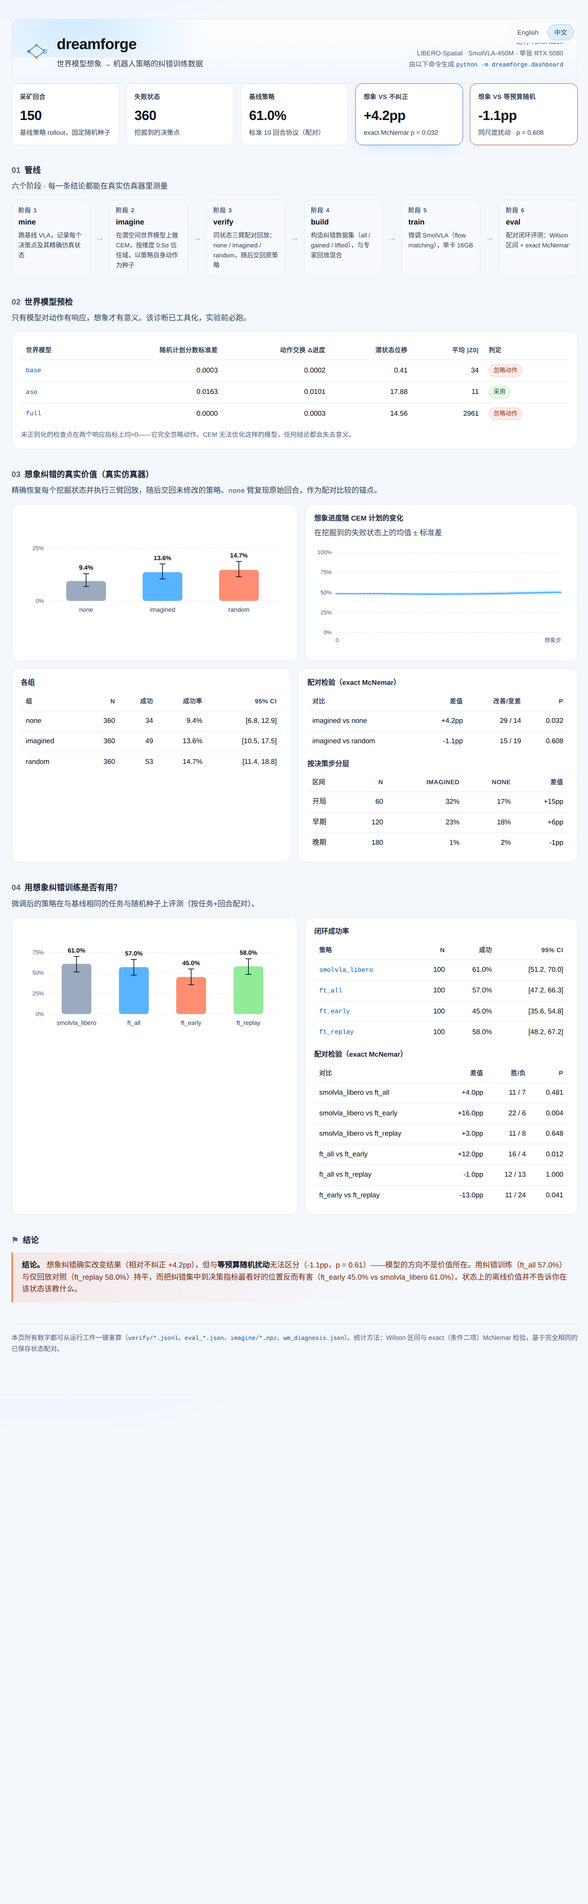
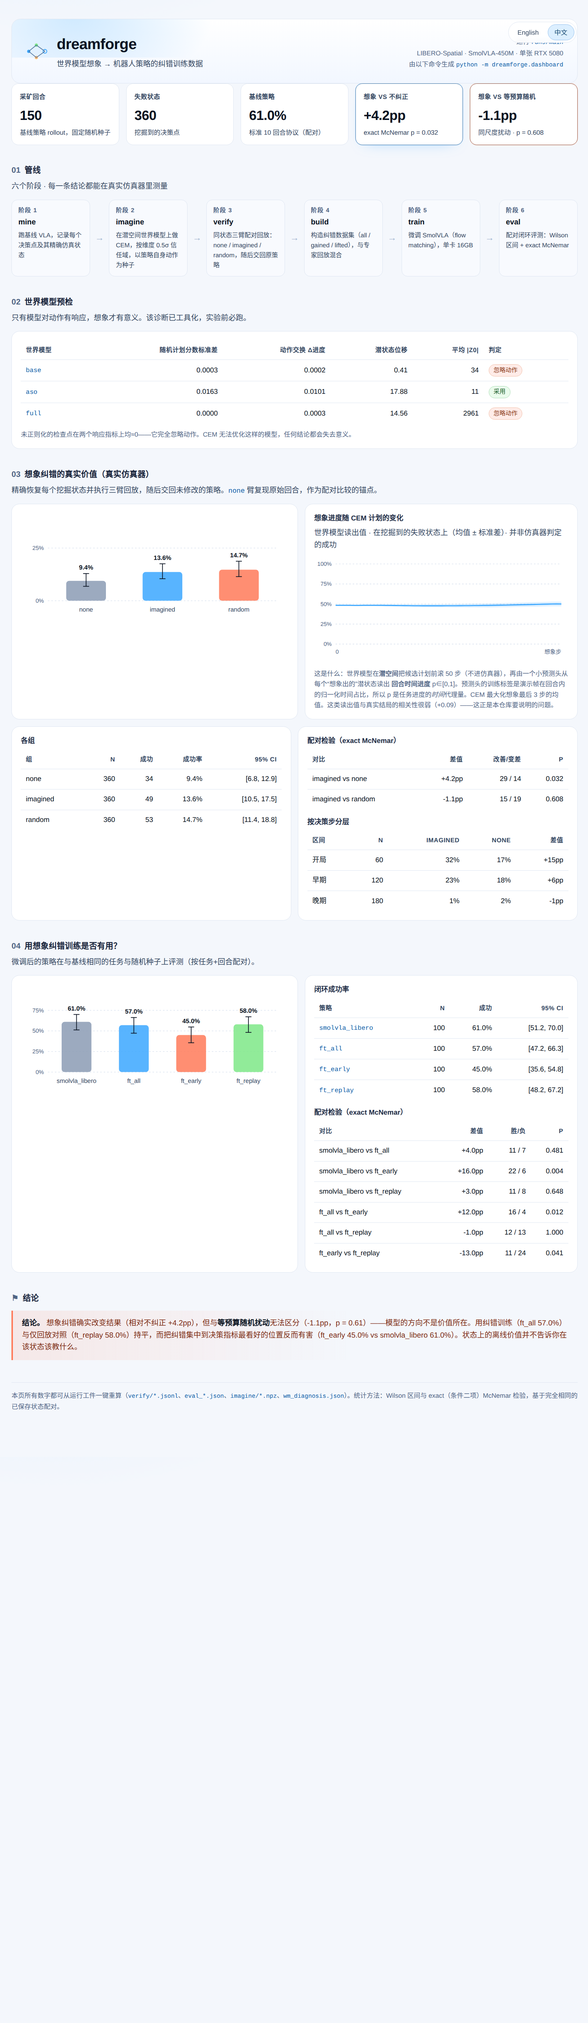
docs(dashboard): explain what 'imagined progress' is
- curve panel now states it is a world-model read-out (not simulator success):
  latent roll-out + a head predicting normalised episode time as a proxy
- protocol.md defines it and records the +0.09 correlation with real outcomes
- refresh EN/ZH screenshots

diff --git a/results/dashboard.html b/results/dashboard.html
@@ -134,7 +134,7 @@ code{font-family:'SFMono-Regular',Consolas,'Liberation Mono',monospace;font-size
       <div class="grid stats"><div class="card "><div class="k">mining episodes</div><div class="v">150</div><div class="d">base policy rollouts, fixed seeds</div></div><div class="card "><div class="k">failure states</div><div class="v">360</div><div class="d">decision points mined</div></div><div class="card "><div class="k">base policy</div><div class="v">61.0%</div><div class="d">10-episode protocol (paired)</div></div><div class="card hl"><div class="k">imagined vs none</div><div class="v">+4.2pp</div><div class="d">exact McNemar p = 0.032</div></div><div class="card bad"><div class="k">imagined vs random</div><div class="v">-1.1pp</div><div class="d">equal budget · p = 0.608</div></div></div>
 <h2><span class="n">01</span>Pipeline</h2><p class="sub">six stages · every claim is measurable in the real simulator</p><div class="flow"><div class="step"><div class="s">stage 1</div><div class="t">mine</div><div class="x">roll out the base VLA, record every decision point with its exact simulator state</div></div><div class="arrow">→</div><div class="step"><div class="s">stage 2</div><div class="t">imagine</div><div class="x">CEM over a latent world model, 0.5σ trust region, seeded by the policy&#x27;s own chunk</div></div><div class="arrow">→</div><div class="step"><div class="s">stage 3</div><div class="t">verify</div><div class="x">paired replay of the saved state: none / imagined / random, then hand back to the policy</div></div><div class="arrow">→</div><div class="step"><div class="s">stage 4</div><div class="t">build</div><div class="x">correction datasets (all / gained / lifted) mixed with expert replay</div></div><div class="arrow">→</div><div class="step"><div class="s">stage 5</div><div class="t">train</div><div class="x">SmolVLA fine-tune, flow matching, 16 GB single GPU</div></div><div class="arrow">→</div><div class="step"><div class="s">stage 6</div><div class="t">eval</div><div class="x">paired closed-loop evaluation with Wilson intervals and exact McNemar</div></div></div>
 <h2><span class="n">02</span>World-model pre-flight</h2><p class="sub">Imagination is only meaningful if the model responds to actions. This diagnostic is shipped as a CLI command and is run before any experiment.</p><div class="panel"><table><thead><tr><th>world model</th><th class="num">score std (random plans)</th><th class="num">action-swap Δprogress</th><th class="num">latent swap</th><th class="num">mean |z0|</th><th>verdict</th></tr></thead><tbody><tr><td><code>base</code></td><td class="num">0.0003</td><td class="num">0.0002</td><td class="num">0.41</td><td class="num">34</td><td><span class="pill o">ignores actions</span></td></tr><tr><td><code>aso</code></td><td class="num">0.0163</td><td class="num">0.0101</td><td class="num">17.88</td><td class="num">11</td><td><span class="pill g">used</span></td></tr><tr><td><code>full</code></td><td class="num">0.0000</td><td class="num">0.0003</td><td class="num">14.56</td><td class="num">2961</td><td><span class="pill o">ignores actions</span></td></tr></tbody></table><div class="note">An unregularized checkpoint scores ≈0 on both response metrics — it ignores the action entirely. CEM cannot optimize such a model, so results would be meaningless.</div></div>
-<h2><span class="n">03</span>What imagined corrections are worth (real simulator)</h2><p class="sub">Each mined state is restored exactly and replayed with three arms, then the unchanged policy resumes. The <code>none</code> arm reproduces the original episode, which anchors the comparison.</p><div class="grid cards" style="grid-template-columns:1.05fr 1fr"><div class="panel"><svg viewBox="0 0 520 210" width="100%" height="210" role="img"><line class="svg-grid" x1="46" y1="176.0" x2="506" y2="176.0"/><text class="svg-ax" x="38" y="180.0" text-anchor="end">0%</text><line class="svg-grid" x1="46" y1="70.3" x2="506" y2="70.3"/><text class="svg-ax" x="38" y="74.3" text-anchor="end">25%</text><rect x="82.8" y="136.1" width="79.7" height="39.9" rx="6" fill="#8b9bb4" fill-opacity="0.85"/><line class="svg-whisk" x1="122.7" y1="121.4" x2="122.7" y2="147.1"/><line class="svg-whisk" x1="116.7" y1="147.1" x2="128.7" y2="147.1"/><line class="svg-whisk" x1="116.7" y1="121.4" x2="128.7" y2="121.4"/><text class="svg-val" x="122.7" y="113.4" text-anchor="middle">9.4%</text><text class="svg-cat" x="122.7" y="198" text-anchor="middle">none</text><rect x="236.1" y="118.4" width="79.7" height="57.6" rx="6" fill="#3ba7ff" fill-opacity="0.85"/><line class="svg-whisk" x1="276.0" y1="101.8" x2="276.0" y2="131.8"/><line class="svg-whisk" x1="270.0" y1="131.8" x2="282.0" y2="131.8"/><line class="svg-whisk" x1="270.0" y1="101.8" x2="282.0" y2="101.8"/><text class="svg-val" x="276.0" y="93.8" text-anchor="middle">13.6%</text><text class="svg-cat" x="276.0" y="198" text-anchor="middle">imagined</text><rect x="389.5" y="113.7" width="79.7" height="62.3" rx="6" fill="#ff7a59" fill-opacity="0.85"/><line class="svg-whisk" x1="429.3" y1="96.7" x2="429.3" y2="127.6"/><line class="svg-whisk" x1="423.3" y1="127.6" x2="435.3" y2="127.6"/><line class="svg-whisk" x1="423.3" y1="96.7" x2="435.3" y2="96.7"/><text class="svg-val" x="429.3" y="88.7" text-anchor="middle">14.7%</text><text class="svg-cat" x="429.3" y="198" text-anchor="middle">random</text></svg></div><div class="panel"><h3>Imagined progress along the CEM plan</h3><div class="sub" style="margin:0 0 8px">mean ± sd over mined failure states</div><svg viewBox="0 0 520 210" width="100%" height="210" role="img"><line class="svg-grid" x1="44" y1="180.0" x2="506" y2="180.0"/><text class="svg-ax" x="36" y="184.0" text-anchor="end">0%</text><line class="svg-grid" x1="44" y1="139.0" x2="506" y2="139.0"/><text class="svg-ax" x="36" y="143.0" text-anchor="end">25%</text><line class="svg-grid" x1="44" y1="98.0" x2="506" y2="98.0"/><text class="svg-ax" x="36" y="102.0" text-anchor="end">50%</text><line class="svg-grid" x1="44" y1="57.0" x2="506" y2="57.0"/><text class="svg-ax" x="36" y="61.0" text-anchor="end">75%</text><line class="svg-grid" x1="44" y1="16.0" x2="506" y2="16.0"/><text class="svg-ax" x="36" y="20.0" text-anchor="end">100%</text><polygon points="44.0,99.7 53.4,99.8 62.9,99.8 72.3,99.8 81.7,99.7 91.1,99.7 100.6,99.5 110.0,99.4 119.4,99.3 128.9,99.2 138.3,99.0 147.7,99.0 157.1,98.9 166.6,98.9 176.0,98.8 185.4,98.7 194.9,98.7 204.3,98.7 213.7,98.7 223.1,98.6 232.6,98.6 242.0,98.5 251.4,98.5 260.9,98.4 270.3,98.2 279.7,98.1 289.1,98.0 298.6,97.9 308.0,97.7 317.4,97.5 326.9,97.3 336.3,97.2 345.7,97.0 355.1,96.8 364.6,96.6 374.0,96.3 383.4,96.2 392.9,95.9 402.3,95.7 411.7,95.5 421.1,95.2 430.6,95.0 440.0,94.7 449.4,94.4 458.9,94.1 468.3,93.9 477.7,93.6 487.1,93.3 496.6,93.2 506.0,93.2 506.0,102.5 496.6,102.5 487.1,102.5 477.7,102.8 468.3,103.0 458.9,103.3 449.4,103.5 440.0,103.5 430.6,103.7 421.1,103.8 411.7,103.9 402.3,104.2 392.9,104.4 383.4,104.4 374.0,104.7 364.6,104.9 355.1,105.0 345.7,104.9 336.3,105.0 326.9,104.9 317.4,105.0 308.0,104.9 298.6,104.9 289.1,105.0 279.7,104.8 270.3,104.7 260.9,104.8 251.4,104.8 242.0,104.7 232.6,104.6 223.1,104.5 213.7,104.4 204.3,104.3 194.9,103.9 185.4,103.7 176.0,103.5 166.6,103.2 157.1,102.9 147.7,102.7 138.3,102.5 128.9,102.3 119.4,102.1 110.0,102.0 100.6,101.9 91.1,101.9 81.7,101.8 72.3,101.7 62.9,101.6 53.4,101.5 44.0,101.4" fill="#3ba7ff" fill-opacity="0.18"/><path d="M44.0,100.6 L53.4,100.7 L62.9,100.7 L72.3,100.7 L81.7,100.8 L91.1,100.8 L100.6,100.7 L110.0,100.7 L119.4,100.7 L128.9,100.7 L138.3,100.7 L147.7,100.8 L157.1,100.9 L166.6,101.0 L176.0,101.1 L185.4,101.2 L194.9,101.3 L204.3,101.5 L213.7,101.5 L223.1,101.6 L232.6,101.6 L242.0,101.6 L251.4,101.6 L260.9,101.6 L270.3,101.5 L279.7,101.5 L289.1,101.5 L298.6,101.4 L308.0,101.3 L317.4,101.3 L326.9,101.1 L336.3,101.1 L345.7,100.9 L355.1,100.9 L364.6,100.7 L374.0,100.5 L383.4,100.3 L392.9,100.2 L402.3,99.9 L411.7,99.7 L421.1,99.5 L430.6,99.3 L440.0,99.1 L449.4,99.0 L458.9,98.7 L468.3,98.4 L477.7,98.2 L487.1,97.9 L496.6,97.8 L506.0,97.9" fill="none" stroke="#3ba7ff" stroke-width="2.2"/><text class="svg-ax" x="506" y="200" text-anchor="end">imagined step</text><text class="svg-ax" x="44" y="200">0</text></svg></div></div><div class="grid cards" style="grid-template-columns:1fr 1fr;margin-top:14px"><div class="panel"><h3>Arms</h3><table><thead><tr><th>arm</th><th class="num">n</th><th class="num">success</th><th class="num">rate</th><th class="num">95% CI</th></tr></thead><tbody><tr><td>none</td><td class='num'>360</td><td class='num'>34</td><td class='num'>9.4%</td><td class='num'>[6.8, 12.9]</td></tr><tr><td>imagined</td><td class='num'>360</td><td class='num'>49</td><td class='num'>13.6%</td><td class='num'>[10.5, 17.5]</td></tr><tr><td>random</td><td class='num'>360</td><td class='num'>53</td><td class='num'>14.7%</td><td class='num'>[11.4, 18.8]</td></tr></tbody></table></div><div class="panel"><h3>Paired tests (exact McNemar)</h3><table><thead><tr><th>comparison</th><th class="num">delta</th><th class="num">improve/worsen</th><th class="num">p</th></tr></thead><tbody><tr><td>imagined vs none</td><td class='num'>+4.2pp</td><td class='num'>29 / 14</td><td class='num'>0.032</td></tr><tr><td>imagined vs random</td><td class='num'>-1.1pp</td><td class='num'>15 / 19</td><td class='num'>0.608</td></tr></tbody></table><h3 style="margin-top:14px">By decision step</h3><table><thead><tr><th>bucket</th><th class="num">n</th><th class="num">imagined</th><th class="num">none</th><th class="num">delta</th></tr></thead><tbody><tr><td>start</td><td class='num'>60</td><td class='num'>32%</td><td class='num'>17%</td><td class='num'>+15pp</td></tr><tr><td>early</td><td class='num'>120</td><td class='num'>23%</td><td class='num'>18%</td><td class='num'>+6pp</td></tr><tr><td>late</td><td class='num'>180</td><td class='num'>1%</td><td class='num'>2%</td><td class='num'>-1pp</td></tr></tbody></table></div></div>
+<h2><span class="n">03</span>What imagined corrections are worth (real simulator)</h2><p class="sub">Each mined state is restored exactly and replayed with three arms, then the unchanged policy resumes. The <code>none</code> arm reproduces the original episode, which anchors the comparison.</p><div class="grid cards" style="grid-template-columns:1.05fr 1fr"><div class="panel"><svg viewBox="0 0 520 210" width="100%" height="210" role="img"><line class="svg-grid" x1="46" y1="176.0" x2="506" y2="176.0"/><text class="svg-ax" x="38" y="180.0" text-anchor="end">0%</text><line class="svg-grid" x1="46" y1="70.3" x2="506" y2="70.3"/><text class="svg-ax" x="38" y="74.3" text-anchor="end">25%</text><rect x="82.8" y="136.1" width="79.7" height="39.9" rx="6" fill="#8b9bb4" fill-opacity="0.85"/><line class="svg-whisk" x1="122.7" y1="121.4" x2="122.7" y2="147.1"/><line class="svg-whisk" x1="116.7" y1="147.1" x2="128.7" y2="147.1"/><line class="svg-whisk" x1="116.7" y1="121.4" x2="128.7" y2="121.4"/><text class="svg-val" x="122.7" y="113.4" text-anchor="middle">9.4%</text><text class="svg-cat" x="122.7" y="198" text-anchor="middle">none</text><rect x="236.1" y="118.4" width="79.7" height="57.6" rx="6" fill="#3ba7ff" fill-opacity="0.85"/><line class="svg-whisk" x1="276.0" y1="101.8" x2="276.0" y2="131.8"/><line class="svg-whisk" x1="270.0" y1="131.8" x2="282.0" y2="131.8"/><line class="svg-whisk" x1="270.0" y1="101.8" x2="282.0" y2="101.8"/><text class="svg-val" x="276.0" y="93.8" text-anchor="middle">13.6%</text><text class="svg-cat" x="276.0" y="198" text-anchor="middle">imagined</text><rect x="389.5" y="113.7" width="79.7" height="62.3" rx="6" fill="#ff7a59" fill-opacity="0.85"/><line class="svg-whisk" x1="429.3" y1="96.7" x2="429.3" y2="127.6"/><line class="svg-whisk" x1="423.3" y1="127.6" x2="435.3" y2="127.6"/><line class="svg-whisk" x1="423.3" y1="96.7" x2="435.3" y2="96.7"/><text class="svg-val" x="429.3" y="88.7" text-anchor="middle">14.7%</text><text class="svg-cat" x="429.3" y="198" text-anchor="middle">random</text></svg></div><div class="panel"><h3>Imagined progress along the CEM plan</h3><div class="sub" style="margin:0 0 8px">world-model read-out · mean ± sd over mined failure states (not simulator success)</div><svg viewBox="0 0 520 210" width="100%" height="210" role="img"><line class="svg-grid" x1="44" y1="180.0" x2="506" y2="180.0"/><text class="svg-ax" x="36" y="184.0" text-anchor="end">0%</text><line class="svg-grid" x1="44" y1="139.0" x2="506" y2="139.0"/><text class="svg-ax" x="36" y="143.0" text-anchor="end">25%</text><line class="svg-grid" x1="44" y1="98.0" x2="506" y2="98.0"/><text class="svg-ax" x="36" y="102.0" text-anchor="end">50%</text><line class="svg-grid" x1="44" y1="57.0" x2="506" y2="57.0"/><text class="svg-ax" x="36" y="61.0" text-anchor="end">75%</text><line class="svg-grid" x1="44" y1="16.0" x2="506" y2="16.0"/><text class="svg-ax" x="36" y="20.0" text-anchor="end">100%</text><polygon points="44.0,99.7 53.4,99.8 62.9,99.8 72.3,99.8 81.7,99.7 91.1,99.7 100.6,99.5 110.0,99.4 119.4,99.3 128.9,99.2 138.3,99.0 147.7,99.0 157.1,98.9 166.6,98.9 176.0,98.8 185.4,98.7 194.9,98.7 204.3,98.7 213.7,98.7 223.1,98.6 232.6,98.6 242.0,98.5 251.4,98.5 260.9,98.4 270.3,98.2 279.7,98.1 289.1,98.0 298.6,97.9 308.0,97.7 317.4,97.5 326.9,97.3 336.3,97.2 345.7,97.0 355.1,96.8 364.6,96.6 374.0,96.3 383.4,96.2 392.9,95.9 402.3,95.7 411.7,95.5 421.1,95.2 430.6,95.0 440.0,94.7 449.4,94.4 458.9,94.1 468.3,93.9 477.7,93.6 487.1,93.3 496.6,93.2 506.0,93.2 506.0,102.5 496.6,102.5 487.1,102.5 477.7,102.8 468.3,103.0 458.9,103.3 449.4,103.5 440.0,103.5 430.6,103.7 421.1,103.8 411.7,103.9 402.3,104.2 392.9,104.4 383.4,104.4 374.0,104.7 364.6,104.9 355.1,105.0 345.7,104.9 336.3,105.0 326.9,104.9 317.4,105.0 308.0,104.9 298.6,104.9 289.1,105.0 279.7,104.8 270.3,104.7 260.9,104.8 251.4,104.8 242.0,104.7 232.6,104.6 223.1,104.5 213.7,104.4 204.3,104.3 194.9,103.9 185.4,103.7 176.0,103.5 166.6,103.2 157.1,102.9 147.7,102.7 138.3,102.5 128.9,102.3 119.4,102.1 110.0,102.0 100.6,101.9 91.1,101.9 81.7,101.8 72.3,101.7 62.9,101.6 53.4,101.5 44.0,101.4" fill="#3ba7ff" fill-opacity="0.18"/><path d="M44.0,100.6 L53.4,100.7 L62.9,100.7 L72.3,100.7 L81.7,100.8 L91.1,100.8 L100.6,100.7 L110.0,100.7 L119.4,100.7 L128.9,100.7 L138.3,100.7 L147.7,100.8 L157.1,100.9 L166.6,101.0 L176.0,101.1 L185.4,101.2 L194.9,101.3 L204.3,101.5 L213.7,101.5 L223.1,101.6 L232.6,101.6 L242.0,101.6 L251.4,101.6 L260.9,101.6 L270.3,101.5 L279.7,101.5 L289.1,101.5 L298.6,101.4 L308.0,101.3 L317.4,101.3 L326.9,101.1 L336.3,101.1 L345.7,100.9 L355.1,100.9 L364.6,100.7 L374.0,100.5 L383.4,100.3 L392.9,100.2 L402.3,99.9 L411.7,99.7 L421.1,99.5 L430.6,99.3 L440.0,99.1 L449.4,99.0 L458.9,98.7 L468.3,98.4 L477.7,98.2 L487.1,97.9 L496.6,97.8 L506.0,97.9" fill="none" stroke="#3ba7ff" stroke-width="2.2"/><text class="svg-ax" x="506" y="200" text-anchor="end">imagined step</text><text class="svg-ax" x="44" y="200">0</text></svg><div class="note">What this is: the world model rolls a candidate plan forward 50 steps in latent space (no simulator); a small head then predicts <b>episode-time progress</b> p∈[0,1] from each imagined latent. The head is trained on demonstration frames labelled by their normalised time inside the episode, so p is a <i>time</i> proxy for task progress. CEM maximises the mean of the last 3 imagined steps. Read-outs like this correlate only weakly with real outcomes (+0.09), which is the finding this repository is about.</div></div></div><div class="grid cards" style="grid-template-columns:1fr 1fr;margin-top:14px"><div class="panel"><h3>Arms</h3><table><thead><tr><th>arm</th><th class="num">n</th><th class="num">success</th><th class="num">rate</th><th class="num">95% CI</th></tr></thead><tbody><tr><td>none</td><td class='num'>360</td><td class='num'>34</td><td class='num'>9.4%</td><td class='num'>[6.8, 12.9]</td></tr><tr><td>imagined</td><td class='num'>360</td><td class='num'>49</td><td class='num'>13.6%</td><td class='num'>[10.5, 17.5]</td></tr><tr><td>random</td><td class='num'>360</td><td class='num'>53</td><td class='num'>14.7%</td><td class='num'>[11.4, 18.8]</td></tr></tbody></table></div><div class="panel"><h3>Paired tests (exact McNemar)</h3><table><thead><tr><th>comparison</th><th class="num">delta</th><th class="num">improve/worsen</th><th class="num">p</th></tr></thead><tbody><tr><td>imagined vs none</td><td class='num'>+4.2pp</td><td class='num'>29 / 14</td><td class='num'>0.032</td></tr><tr><td>imagined vs random</td><td class='num'>-1.1pp</td><td class='num'>15 / 19</td><td class='num'>0.608</td></tr></tbody></table><h3 style="margin-top:14px">By decision step</h3><table><thead><tr><th>bucket</th><th class="num">n</th><th class="num">imagined</th><th class="num">none</th><th class="num">delta</th></tr></thead><tbody><tr><td>start</td><td class='num'>60</td><td class='num'>32%</td><td class='num'>17%</td><td class='num'>+15pp</td></tr><tr><td>early</td><td class='num'>120</td><td class='num'>23%</td><td class='num'>18%</td><td class='num'>+6pp</td></tr><tr><td>late</td><td class='num'>180</td><td class='num'>1%</td><td class='num'>2%</td><td class='num'>-1pp</td></tr></tbody></table></div></div>
 <h2><span class="n">04</span>Does training on imagined corrections help?</h2><p class="sub">Fine-tuned policies are evaluated on the same suite and seeds as the base policy (paired by task and episode).</p><div class="grid cards" style="grid-template-columns:1.05fr 1fr"><div class="panel"><svg viewBox="0 0 520 210" width="100%" height="210" role="img"><line class="svg-grid" x1="46" y1="176.0" x2="506" y2="176.0"/><text class="svg-ax" x="38" y="180.0" text-anchor="end">0%</text><line class="svg-grid" x1="46" y1="134.7" x2="506" y2="134.7"/><text class="svg-ax" x="38" y="138.7" text-anchor="end">25%</text><line class="svg-grid" x1="46" y1="93.4" x2="506" y2="93.4"/><text class="svg-ax" x="38" y="97.4" text-anchor="end">50%</text><line class="svg-grid" x1="46" y1="52.1" x2="506" y2="52.1"/><text class="svg-ax" x="38" y="56.1" text-anchor="end">75%</text><rect x="73.6" y="75.2" width="59.8" height="100.8" rx="6" fill="#8b9bb4" fill-opacity="0.85"/><line class="svg-whisk" x1="103.5" y1="60.4" x2="103.5" y2="91.4"/><line class="svg-whisk" x1="97.5" y1="91.4" x2="109.5" y2="91.4"/><line class="svg-whisk" x1="97.5" y1="60.4" x2="109.5" y2="60.4"/><text class="svg-val" x="103.5" y="52.4" text-anchor="middle">61.0%</text><text class="svg-cat" x="103.5" y="198" text-anchor="middle">smolvla_libero</text><rect x="188.6" y="81.8" width="59.8" height="94.2" rx="6" fill="#3ba7ff" fill-opacity="0.85"/><line class="svg-whisk" x1="218.5" y1="66.5" x2="218.5" y2="98.0"/><line class="svg-whisk" x1="212.5" y1="98.0" x2="224.5" y2="98.0"/><line class="svg-whisk" x1="212.5" y1="66.5" x2="224.5" y2="66.5"/><text class="svg-val" x="218.5" y="58.5" text-anchor="middle">57.0%</text><text class="svg-cat" x="218.5" y="198" text-anchor="middle">ft_all</text><rect x="303.6" y="101.7" width="59.8" height="74.3" rx="6" fill="#ff7a59" fill-opacity="0.85"/><line class="svg-whisk" x1="333.5" y1="85.5" x2="333.5" y2="117.2"/><line class="svg-whisk" x1="327.5" y1="117.2" x2="339.5" y2="117.2"/><line class="svg-whisk" x1="327.5" y1="85.5" x2="339.5" y2="85.5"/><text class="svg-val" x="333.5" y="77.5" text-anchor="middle">45.0%</text><text class="svg-cat" x="333.5" y="198" text-anchor="middle">ft_early</text><rect x="418.6" y="80.2" width="59.8" height="95.8" rx="6" fill="#7ee787" fill-opacity="0.85"/><line class="svg-whisk" x1="448.5" y1="65.0" x2="448.5" y2="96.4"/><line class="svg-whisk" x1="442.5" y1="96.4" x2="454.5" y2="96.4"/><line class="svg-whisk" x1="442.5" y1="65.0" x2="454.5" y2="65.0"/><text class="svg-val" x="448.5" y="57.0" text-anchor="middle">58.0%</text><text class="svg-cat" x="448.5" y="198" text-anchor="middle">ft_replay</text></svg></div><div class="panel"><h3>Closed-loop success</h3><table><thead><tr><th>policy</th><th class="num">n</th><th class="num">success</th><th class="num">95% CI</th></tr></thead><tbody><tr><td><code>smolvla_libero</code></td><td class='num'>100</td><td class='num'>61.0%</td><td class='num'>[51.2, 70.0]</td></tr><tr><td><code>ft_all</code></td><td class='num'>100</td><td class='num'>57.0%</td><td class='num'>[47.2, 66.3]</td></tr><tr><td><code>ft_early</code></td><td class='num'>100</td><td class='num'>45.0%</td><td class='num'>[35.6, 54.8]</td></tr><tr><td><code>ft_replay</code></td><td class='num'>100</td><td class='num'>58.0%</td><td class='num'>[48.2, 67.2]</td></tr></tbody></table><h3 style="margin-top:14px">Paired tests (exact McNemar)</h3><table><thead><tr><th>comparison</th><th class="num">delta</th><th class="num">W/L</th><th class="num">p</th></tr></thead><tbody><tr><td>smolvla_libero vs ft_all</td><td class='num'>+4.0pp</td><td class='num'>11 / 7</td><td class='num'>0.481</td></tr><tr><td>smolvla_libero vs ft_early</td><td class='num'>+16.0pp</td><td class='num'>22 / 6</td><td class='num'>0.004</td></tr><tr><td>smolvla_libero vs ft_replay</td><td class='num'>+3.0pp</td><td class='num'>11 / 8</td><td class='num'>0.648</td></tr><tr><td>ft_all vs ft_early</td><td class='num'>+12.0pp</td><td class='num'>16 / 4</td><td class='num'>0.012</td></tr><tr><td>ft_all vs ft_replay</td><td class='num'>-1.0pp</td><td class='num'>12 / 13</td><td class='num'>1.000</td></tr><tr><td>ft_early vs ft_replay</td><td class='num'>-13.0pp</td><td class='num'>11 / 24</td><td class='num'>0.041</td></tr></tbody></table></div></div>
 <h2><span class="n">&#9873;</span>Verdict</h2>
 <div class="verdict"><b>Verdict.</b> imagined corrections change outcomes (+4.2pp vs doing nothing), but they are indistinguishable from an <b>equal-budget random perturbation</b> (-1.1pp, p = 0.61) — the model's direction is not where the value is. Training on the corrections (ft_all 57.0%) matches a replay-only control (ft_replay 58.0%), and concentrating corrections where the decision-point metric looked best is actively harmful (ft_early 45.0% vs smolvla_libero 61.0%). Offline value at a state does not tell you what to teach there.</div>
@@ -152,7 +152,7 @@ code{font-family:'SFMono-Regular',Consolas,'Liberation Mono',monospace;font-size
       <div class="grid stats"><div class="card "><div class="k">采矿回合</div><div class="v">150</div><div class="d">基线策略 rollout，固定随机种子</div></div><div class="card "><div class="k">失败状态</div><div class="v">360</div><div class="d">挖掘到的决策点</div></div><div class="card "><div class="k">基线策略</div><div class="v">61.0%</div><div class="d">标准 10 回合协议（配对）</div></div><div class="card hl"><div class="k">想象 vs 不纠正</div><div class="v">+4.2pp</div><div class="d">exact McNemar p = 0.032</div></div><div class="card bad"><div class="k">想象 vs 等预算随机</div><div class="v">-1.1pp</div><div class="d">同尺度扰动 · p = 0.608</div></div></div>
 <h2><span class="n">01</span>管线</h2><p class="sub">六个阶段 · 每一条结论都能在真实仿真器里测量</p><div class="flow"><div class="step"><div class="s">阶段 1</div><div class="t">mine</div><div class="x">跑基线 VLA，记录每个决策点及其精确仿真状态</div></div><div class="arrow">→</div><div class="step"><div class="s">阶段 2</div><div class="t">imagine</div><div class="x">在潜空间世界模型上做 CEM，按维度 0.5σ 信任域，以策略自身动作为种子</div></div><div class="arrow">→</div><div class="step"><div class="s">阶段 3</div><div class="t">verify</div><div class="x">同状态三臂配对回放：none / imagined / random，随后交回原策略</div></div><div class="arrow">→</div><div class="step"><div class="s">阶段 4</div><div class="t">build</div><div class="x">构造纠错数据集（all / gained / lifted），与专家回放混合</div></div><div class="arrow">→</div><div class="step"><div class="s">阶段 5</div><div class="t">train</div><div class="x">微调 SmolVLA（flow matching），单卡 16GB</div></div><div class="arrow">→</div><div class="step"><div class="s">阶段 6</div><div class="t">eval</div><div class="x">配对闭环评测：Wilson 区间 + exact McNemar</div></div></div>
 <h2><span class="n">02</span>世界模型预检</h2><p class="sub">只有模型对动作有响应，想象才有意义。该诊断已工具化，实验前必跑。</p><div class="panel"><table><thead><tr><th>世界模型</th><th class="num">随机计划分数标准差</th><th class="num">动作交换 Δ进度</th><th class="num">潜状态位移</th><th class="num">平均 |z0|</th><th>判定</th></tr></thead><tbody><tr><td><code>base</code></td><td class="num">0.0003</td><td class="num">0.0002</td><td class="num">0.41</td><td class="num">34</td><td><span class="pill o">忽略动作</span></td></tr><tr><td><code>aso</code></td><td class="num">0.0163</td><td class="num">0.0101</td><td class="num">17.88</td><td class="num">11</td><td><span class="pill g">采用</span></td></tr><tr><td><code>full</code></td><td class="num">0.0000</td><td class="num">0.0003</td><td class="num">14.56</td><td class="num">2961</td><td><span class="pill o">忽略动作</span></td></tr></tbody></table><div class="note">未正则化的检查点在两个响应指标上均≈0——它完全忽略动作。CEM 无法优化这样的模型，任何结论都会失去意义。</div></div>
-<h2><span class="n">03</span>想象纠错的真实价值（真实仿真器）</h2><p class="sub">精确恢复每个挖掘状态并执行三臂回放，随后交回未修改的策略。<code>none</code> 臂复现原始回合，作为配对比较的锚点。</p><div class="grid cards" style="grid-template-columns:1.05fr 1fr"><div class="panel"><svg viewBox="0 0 520 210" width="100%" height="210" role="img"><line class="svg-grid" x1="46" y1="176.0" x2="506" y2="176.0"/><text class="svg-ax" x="38" y="180.0" text-anchor="end">0%</text><line class="svg-grid" x1="46" y1="70.3" x2="506" y2="70.3"/><text class="svg-ax" x="38" y="74.3" text-anchor="end">25%</text><rect x="82.8" y="136.1" width="79.7" height="39.9" rx="6" fill="#8b9bb4" fill-opacity="0.85"/><line class="svg-whisk" x1="122.7" y1="121.4" x2="122.7" y2="147.1"/><line class="svg-whisk" x1="116.7" y1="147.1" x2="128.7" y2="147.1"/><line class="svg-whisk" x1="116.7" y1="121.4" x2="128.7" y2="121.4"/><text class="svg-val" x="122.7" y="113.4" text-anchor="middle">9.4%</text><text class="svg-cat" x="122.7" y="198" text-anchor="middle">none</text><rect x="236.1" y="118.4" width="79.7" height="57.6" rx="6" fill="#3ba7ff" fill-opacity="0.85"/><line class="svg-whisk" x1="276.0" y1="101.8" x2="276.0" y2="131.8"/><line class="svg-whisk" x1="270.0" y1="131.8" x2="282.0" y2="131.8"/><line class="svg-whisk" x1="270.0" y1="101.8" x2="282.0" y2="101.8"/><text class="svg-val" x="276.0" y="93.8" text-anchor="middle">13.6%</text><text class="svg-cat" x="276.0" y="198" text-anchor="middle">imagined</text><rect x="389.5" y="113.7" width="79.7" height="62.3" rx="6" fill="#ff7a59" fill-opacity="0.85"/><line class="svg-whisk" x1="429.3" y1="96.7" x2="429.3" y2="127.6"/><line class="svg-whisk" x1="423.3" y1="127.6" x2="435.3" y2="127.6"/><line class="svg-whisk" x1="423.3" y1="96.7" x2="435.3" y2="96.7"/><text class="svg-val" x="429.3" y="88.7" text-anchor="middle">14.7%</text><text class="svg-cat" x="429.3" y="198" text-anchor="middle">random</text></svg></div><div class="panel"><h3>想象进度随 CEM 计划的变化</h3><div class="sub" style="margin:0 0 8px">在挖掘到的失败状态上的均值 ± 标准差</div><svg viewBox="0 0 520 210" width="100%" height="210" role="img"><line class="svg-grid" x1="44" y1="180.0" x2="506" y2="180.0"/><text class="svg-ax" x="36" y="184.0" text-anchor="end">0%</text><line class="svg-grid" x1="44" y1="139.0" x2="506" y2="139.0"/><text class="svg-ax" x="36" y="143.0" text-anchor="end">25%</text><line class="svg-grid" x1="44" y1="98.0" x2="506" y2="98.0"/><text class="svg-ax" x="36" y="102.0" text-anchor="end">50%</text><line class="svg-grid" x1="44" y1="57.0" x2="506" y2="57.0"/><text class="svg-ax" x="36" y="61.0" text-anchor="end">75%</text><line class="svg-grid" x1="44" y1="16.0" x2="506" y2="16.0"/><text class="svg-ax" x="36" y="20.0" text-anchor="end">100%</text><polygon points="44.0,99.7 53.4,99.8 62.9,99.8 72.3,99.8 81.7,99.7 91.1,99.7 100.6,99.5 110.0,99.4 119.4,99.3 128.9,99.2 138.3,99.0 147.7,99.0 157.1,98.9 166.6,98.9 176.0,98.8 185.4,98.7 194.9,98.7 204.3,98.7 213.7,98.7 223.1,98.6 232.6,98.6 242.0,98.5 251.4,98.5 260.9,98.4 270.3,98.2 279.7,98.1 289.1,98.0 298.6,97.9 308.0,97.7 317.4,97.5 326.9,97.3 336.3,97.2 345.7,97.0 355.1,96.8 364.6,96.6 374.0,96.3 383.4,96.2 392.9,95.9 402.3,95.7 411.7,95.5 421.1,95.2 430.6,95.0 440.0,94.7 449.4,94.4 458.9,94.1 468.3,93.9 477.7,93.6 487.1,93.3 496.6,93.2 506.0,93.2 506.0,102.5 496.6,102.5 487.1,102.5 477.7,102.8 468.3,103.0 458.9,103.3 449.4,103.5 440.0,103.5 430.6,103.7 421.1,103.8 411.7,103.9 402.3,104.2 392.9,104.4 383.4,104.4 374.0,104.7 364.6,104.9 355.1,105.0 345.7,104.9 336.3,105.0 326.9,104.9 317.4,105.0 308.0,104.9 298.6,104.9 289.1,105.0 279.7,104.8 270.3,104.7 260.9,104.8 251.4,104.8 242.0,104.7 232.6,104.6 223.1,104.5 213.7,104.4 204.3,104.3 194.9,103.9 185.4,103.7 176.0,103.5 166.6,103.2 157.1,102.9 147.7,102.7 138.3,102.5 128.9,102.3 119.4,102.1 110.0,102.0 100.6,101.9 91.1,101.9 81.7,101.8 72.3,101.7 62.9,101.6 53.4,101.5 44.0,101.4" fill="#3ba7ff" fill-opacity="0.18"/><path d="M44.0,100.6 L53.4,100.7 L62.9,100.7 L72.3,100.7 L81.7,100.8 L91.1,100.8 L100.6,100.7 L110.0,100.7 L119.4,100.7 L128.9,100.7 L138.3,100.7 L147.7,100.8 L157.1,100.9 L166.6,101.0 L176.0,101.1 L185.4,101.2 L194.9,101.3 L204.3,101.5 L213.7,101.5 L223.1,101.6 L232.6,101.6 L242.0,101.6 L251.4,101.6 L260.9,101.6 L270.3,101.5 L279.7,101.5 L289.1,101.5 L298.6,101.4 L308.0,101.3 L317.4,101.3 L326.9,101.1 L336.3,101.1 L345.7,100.9 L355.1,100.9 L364.6,100.7 L374.0,100.5 L383.4,100.3 L392.9,100.2 L402.3,99.9 L411.7,99.7 L421.1,99.5 L430.6,99.3 L440.0,99.1 L449.4,99.0 L458.9,98.7 L468.3,98.4 L477.7,98.2 L487.1,97.9 L496.6,97.8 L506.0,97.9" fill="none" stroke="#3ba7ff" stroke-width="2.2"/><text class="svg-ax" x="506" y="200" text-anchor="end">想象步</text><text class="svg-ax" x="44" y="200">0</text></svg></div></div><div class="grid cards" style="grid-template-columns:1fr 1fr;margin-top:14px"><div class="panel"><h3>各组</h3><table><thead><tr><th>组</th><th class="num">n</th><th class="num">成功</th><th class="num">成功率</th><th class="num">95% CI</th></tr></thead><tbody><tr><td>none</td><td class='num'>360</td><td class='num'>34</td><td class='num'>9.4%</td><td class='num'>[6.8, 12.9]</td></tr><tr><td>imagined</td><td class='num'>360</td><td class='num'>49</td><td class='num'>13.6%</td><td class='num'>[10.5, 17.5]</td></tr><tr><td>random</td><td class='num'>360</td><td class='num'>53</td><td class='num'>14.7%</td><td class='num'>[11.4, 18.8]</td></tr></tbody></table></div><div class="panel"><h3>配对检验（exact McNemar）</h3><table><thead><tr><th>对比</th><th class="num">差值</th><th class="num">改善/变差</th><th class="num">p</th></tr></thead><tbody><tr><td>imagined vs none</td><td class='num'>+4.2pp</td><td class='num'>29 / 14</td><td class='num'>0.032</td></tr><tr><td>imagined vs random</td><td class='num'>-1.1pp</td><td class='num'>15 / 19</td><td class='num'>0.608</td></tr></tbody></table><h3 style="margin-top:14px">按决策步分层</h3><table><thead><tr><th>区间</th><th class="num">n</th><th class="num">imagined</th><th class="num">none</th><th class="num">差值</th></tr></thead><tbody><tr><td>开局</td><td class='num'>60</td><td class='num'>32%</td><td class='num'>17%</td><td class='num'>+15pp</td></tr><tr><td>早期</td><td class='num'>120</td><td class='num'>23%</td><td class='num'>18%</td><td class='num'>+6pp</td></tr><tr><td>晚期</td><td class='num'>180</td><td class='num'>1%</td><td class='num'>2%</td><td class='num'>-1pp</td></tr></tbody></table></div></div>
+<h2><span class="n">03</span>想象纠错的真实价值（真实仿真器）</h2><p class="sub">精确恢复每个挖掘状态并执行三臂回放，随后交回未修改的策略。<code>none</code> 臂复现原始回合，作为配对比较的锚点。</p><div class="grid cards" style="grid-template-columns:1.05fr 1fr"><div class="panel"><svg viewBox="0 0 520 210" width="100%" height="210" role="img"><line class="svg-grid" x1="46" y1="176.0" x2="506" y2="176.0"/><text class="svg-ax" x="38" y="180.0" text-anchor="end">0%</text><line class="svg-grid" x1="46" y1="70.3" x2="506" y2="70.3"/><text class="svg-ax" x="38" y="74.3" text-anchor="end">25%</text><rect x="82.8" y="136.1" width="79.7" height="39.9" rx="6" fill="#8b9bb4" fill-opacity="0.85"/><line class="svg-whisk" x1="122.7" y1="121.4" x2="122.7" y2="147.1"/><line class="svg-whisk" x1="116.7" y1="147.1" x2="128.7" y2="147.1"/><line class="svg-whisk" x1="116.7" y1="121.4" x2="128.7" y2="121.4"/><text class="svg-val" x="122.7" y="113.4" text-anchor="middle">9.4%</text><text class="svg-cat" x="122.7" y="198" text-anchor="middle">none</text><rect x="236.1" y="118.4" width="79.7" height="57.6" rx="6" fill="#3ba7ff" fill-opacity="0.85"/><line class="svg-whisk" x1="276.0" y1="101.8" x2="276.0" y2="131.8"/><line class="svg-whisk" x1="270.0" y1="131.8" x2="282.0" y2="131.8"/><line class="svg-whisk" x1="270.0" y1="101.8" x2="282.0" y2="101.8"/><text class="svg-val" x="276.0" y="93.8" text-anchor="middle">13.6%</text><text class="svg-cat" x="276.0" y="198" text-anchor="middle">imagined</text><rect x="389.5" y="113.7" width="79.7" height="62.3" rx="6" fill="#ff7a59" fill-opacity="0.85"/><line class="svg-whisk" x1="429.3" y1="96.7" x2="429.3" y2="127.6"/><line class="svg-whisk" x1="423.3" y1="127.6" x2="435.3" y2="127.6"/><line class="svg-whisk" x1="423.3" y1="96.7" x2="435.3" y2="96.7"/><text class="svg-val" x="429.3" y="88.7" text-anchor="middle">14.7%</text><text class="svg-cat" x="429.3" y="198" text-anchor="middle">random</text></svg></div><div class="panel"><h3>想象进度随 CEM 计划的变化</h3><div class="sub" style="margin:0 0 8px">世界模型读出值 · 在挖掘到的失败状态上（均值 ± 标准差）· 并非仿真器判定的成功</div><svg viewBox="0 0 520 210" width="100%" height="210" role="img"><line class="svg-grid" x1="44" y1="180.0" x2="506" y2="180.0"/><text class="svg-ax" x="36" y="184.0" text-anchor="end">0%</text><line class="svg-grid" x1="44" y1="139.0" x2="506" y2="139.0"/><text class="svg-ax" x="36" y="143.0" text-anchor="end">25%</text><line class="svg-grid" x1="44" y1="98.0" x2="506" y2="98.0"/><text class="svg-ax" x="36" y="102.0" text-anchor="end">50%</text><line class="svg-grid" x1="44" y1="57.0" x2="506" y2="57.0"/><text class="svg-ax" x="36" y="61.0" text-anchor="end">75%</text><line class="svg-grid" x1="44" y1="16.0" x2="506" y2="16.0"/><text class="svg-ax" x="36" y="20.0" text-anchor="end">100%</text><polygon points="44.0,99.7 53.4,99.8 62.9,99.8 72.3,99.8 81.7,99.7 91.1,99.7 100.6,99.5 110.0,99.4 119.4,99.3 128.9,99.2 138.3,99.0 147.7,99.0 157.1,98.9 166.6,98.9 176.0,98.8 185.4,98.7 194.9,98.7 204.3,98.7 213.7,98.7 223.1,98.6 232.6,98.6 242.0,98.5 251.4,98.5 260.9,98.4 270.3,98.2 279.7,98.1 289.1,98.0 298.6,97.9 308.0,97.7 317.4,97.5 326.9,97.3 336.3,97.2 345.7,97.0 355.1,96.8 364.6,96.6 374.0,96.3 383.4,96.2 392.9,95.9 402.3,95.7 411.7,95.5 421.1,95.2 430.6,95.0 440.0,94.7 449.4,94.4 458.9,94.1 468.3,93.9 477.7,93.6 487.1,93.3 496.6,93.2 506.0,93.2 506.0,102.5 496.6,102.5 487.1,102.5 477.7,102.8 468.3,103.0 458.9,103.3 449.4,103.5 440.0,103.5 430.6,103.7 421.1,103.8 411.7,103.9 402.3,104.2 392.9,104.4 383.4,104.4 374.0,104.7 364.6,104.9 355.1,105.0 345.7,104.9 336.3,105.0 326.9,104.9 317.4,105.0 308.0,104.9 298.6,104.9 289.1,105.0 279.7,104.8 270.3,104.7 260.9,104.8 251.4,104.8 242.0,104.7 232.6,104.6 223.1,104.5 213.7,104.4 204.3,104.3 194.9,103.9 185.4,103.7 176.0,103.5 166.6,103.2 157.1,102.9 147.7,102.7 138.3,102.5 128.9,102.3 119.4,102.1 110.0,102.0 100.6,101.9 91.1,101.9 81.7,101.8 72.3,101.7 62.9,101.6 53.4,101.5 44.0,101.4" fill="#3ba7ff" fill-opacity="0.18"/><path d="M44.0,100.6 L53.4,100.7 L62.9,100.7 L72.3,100.7 L81.7,100.8 L91.1,100.8 L100.6,100.7 L110.0,100.7 L119.4,100.7 L128.9,100.7 L138.3,100.7 L147.7,100.8 L157.1,100.9 L166.6,101.0 L176.0,101.1 L185.4,101.2 L194.9,101.3 L204.3,101.5 L213.7,101.5 L223.1,101.6 L232.6,101.6 L242.0,101.6 L251.4,101.6 L260.9,101.6 L270.3,101.5 L279.7,101.5 L289.1,101.5 L298.6,101.4 L308.0,101.3 L317.4,101.3 L326.9,101.1 L336.3,101.1 L345.7,100.9 L355.1,100.9 L364.6,100.7 L374.0,100.5 L383.4,100.3 L392.9,100.2 L402.3,99.9 L411.7,99.7 L421.1,99.5 L430.6,99.3 L440.0,99.1 L449.4,99.0 L458.9,98.7 L468.3,98.4 L477.7,98.2 L487.1,97.9 L496.6,97.8 L506.0,97.9" fill="none" stroke="#3ba7ff" stroke-width="2.2"/><text class="svg-ax" x="506" y="200" text-anchor="end">想象步</text><text class="svg-ax" x="44" y="200">0</text></svg><div class="note">这是什么：世界模型在<b>潜空间</b>把候选计划前滚 50 步（不进仿真器），再由一个小预测头从每个“想象出的”潜状态读出 <b>回合时间进度</b> p∈[0,1]。预测头的训练标签是演示帧在回合内的归一化时间占比，所以 p 是任务进度的<i>时间</i>代理量。CEM 最大化想象最后 3 步的均值。这类读出值与真实结局的相关性很弱（+0.09）——这正是本仓库要说明的问题。</div></div></div><div class="grid cards" style="grid-template-columns:1fr 1fr;margin-top:14px"><div class="panel"><h3>各组</h3><table><thead><tr><th>组</th><th class="num">n</th><th class="num">成功</th><th class="num">成功率</th><th class="num">95% CI</th></tr></thead><tbody><tr><td>none</td><td class='num'>360</td><td class='num'>34</td><td class='num'>9.4%</td><td class='num'>[6.8, 12.9]</td></tr><tr><td>imagined</td><td class='num'>360</td><td class='num'>49</td><td class='num'>13.6%</td><td class='num'>[10.5, 17.5]</td></tr><tr><td>random</td><td class='num'>360</td><td class='num'>53</td><td class='num'>14.7%</td><td class='num'>[11.4, 18.8]</td></tr></tbody></table></div><div class="panel"><h3>配对检验（exact McNemar）</h3><table><thead><tr><th>对比</th><th class="num">差值</th><th class="num">改善/变差</th><th class="num">p</th></tr></thead><tbody><tr><td>imagined vs none</td><td class='num'>+4.2pp</td><td class='num'>29 / 14</td><td class='num'>0.032</td></tr><tr><td>imagined vs random</td><td class='num'>-1.1pp</td><td class='num'>15 / 19</td><td class='num'>0.608</td></tr></tbody></table><h3 style="margin-top:14px">按决策步分层</h3><table><thead><tr><th>区间</th><th class="num">n</th><th class="num">imagined</th><th class="num">none</th><th class="num">差值</th></tr></thead><tbody><tr><td>开局</td><td class='num'>60</td><td class='num'>32%</td><td class='num'>17%</td><td class='num'>+15pp</td></tr><tr><td>早期</td><td class='num'>120</td><td class='num'>23%</td><td class='num'>18%</td><td class='num'>+6pp</td></tr><tr><td>晚期</td><td class='num'>180</td><td class='num'>1%</td><td class='num'>2%</td><td class='num'>-1pp</td></tr></tbody></table></div></div>
 <h2><span class="n">04</span>用想象纠错训练是否有用？</h2><p class="sub">微调后的策略在与基线相同的任务与随机种子上评测（按任务+回合配对）。</p><div class="grid cards" style="grid-template-columns:1.05fr 1fr"><div class="panel"><svg viewBox="0 0 520 210" width="100%" height="210" role="img"><line class="svg-grid" x1="46" y1="176.0" x2="506" y2="176.0"/><text class="svg-ax" x="38" y="180.0" text-anchor="end">0%</text><line class="svg-grid" x1="46" y1="134.7" x2="506" y2="134.7"/><text class="svg-ax" x="38" y="138.7" text-anchor="end">25%</text><line class="svg-grid" x1="46" y1="93.4" x2="506" y2="93.4"/><text class="svg-ax" x="38" y="97.4" text-anchor="end">50%</text><line class="svg-grid" x1="46" y1="52.1" x2="506" y2="52.1"/><text class="svg-ax" x="38" y="56.1" text-anchor="end">75%</text><rect x="73.6" y="75.2" width="59.8" height="100.8" rx="6" fill="#8b9bb4" fill-opacity="0.85"/><line class="svg-whisk" x1="103.5" y1="60.4" x2="103.5" y2="91.4"/><line class="svg-whisk" x1="97.5" y1="91.4" x2="109.5" y2="91.4"/><line class="svg-whisk" x1="97.5" y1="60.4" x2="109.5" y2="60.4"/><text class="svg-val" x="103.5" y="52.4" text-anchor="middle">61.0%</text><text class="svg-cat" x="103.5" y="198" text-anchor="middle">smolvla_libero</text><rect x="188.6" y="81.8" width="59.8" height="94.2" rx="6" fill="#3ba7ff" fill-opacity="0.85"/><line class="svg-whisk" x1="218.5" y1="66.5" x2="218.5" y2="98.0"/><line class="svg-whisk" x1="212.5" y1="98.0" x2="224.5" y2="98.0"/><line class="svg-whisk" x1="212.5" y1="66.5" x2="224.5" y2="66.5"/><text class="svg-val" x="218.5" y="58.5" text-anchor="middle">57.0%</text><text class="svg-cat" x="218.5" y="198" text-anchor="middle">ft_all</text><rect x="303.6" y="101.7" width="59.8" height="74.3" rx="6" fill="#ff7a59" fill-opacity="0.85"/><line class="svg-whisk" x1="333.5" y1="85.5" x2="333.5" y2="117.2"/><line class="svg-whisk" x1="327.5" y1="117.2" x2="339.5" y2="117.2"/><line class="svg-whisk" x1="327.5" y1="85.5" x2="339.5" y2="85.5"/><text class="svg-val" x="333.5" y="77.5" text-anchor="middle">45.0%</text><text class="svg-cat" x="333.5" y="198" text-anchor="middle">ft_early</text><rect x="418.6" y="80.2" width="59.8" height="95.8" rx="6" fill="#7ee787" fill-opacity="0.85"/><line class="svg-whisk" x1="448.5" y1="65.0" x2="448.5" y2="96.4"/><line class="svg-whisk" x1="442.5" y1="96.4" x2="454.5" y2="96.4"/><line class="svg-whisk" x1="442.5" y1="65.0" x2="454.5" y2="65.0"/><text class="svg-val" x="448.5" y="57.0" text-anchor="middle">58.0%</text><text class="svg-cat" x="448.5" y="198" text-anchor="middle">ft_replay</text></svg></div><div class="panel"><h3>闭环成功率</h3><table><thead><tr><th>策略</th><th class="num">n</th><th class="num">成功</th><th class="num">95% CI</th></tr></thead><tbody><tr><td><code>smolvla_libero</code></td><td class='num'>100</td><td class='num'>61.0%</td><td class='num'>[51.2, 70.0]</td></tr><tr><td><code>ft_all</code></td><td class='num'>100</td><td class='num'>57.0%</td><td class='num'>[47.2, 66.3]</td></tr><tr><td><code>ft_early</code></td><td class='num'>100</td><td class='num'>45.0%</td><td class='num'>[35.6, 54.8]</td></tr><tr><td><code>ft_replay</code></td><td class='num'>100</td><td class='num'>58.0%</td><td class='num'>[48.2, 67.2]</td></tr></tbody></table><h3 style="margin-top:14px">配对检验（exact McNemar）</h3><table><thead><tr><th>对比</th><th class="num">差值</th><th class="num">胜/负</th><th class="num">p</th></tr></thead><tbody><tr><td>smolvla_libero vs ft_all</td><td class='num'>+4.0pp</td><td class='num'>11 / 7</td><td class='num'>0.481</td></tr><tr><td>smolvla_libero vs ft_early</td><td class='num'>+16.0pp</td><td class='num'>22 / 6</td><td class='num'>0.004</td></tr><tr><td>smolvla_libero vs ft_replay</td><td class='num'>+3.0pp</td><td class='num'>11 / 8</td><td class='num'>0.648</td></tr><tr><td>ft_all vs ft_early</td><td class='num'>+12.0pp</td><td class='num'>16 / 4</td><td class='num'>0.012</td></tr><tr><td>ft_all vs ft_replay</td><td class='num'>-1.0pp</td><td class='num'>12 / 13</td><td class='num'>1.000</td></tr><tr><td>ft_early vs ft_replay</td><td class='num'>-13.0pp</td><td class='num'>11 / 24</td><td class='num'>0.041</td></tr></tbody></table></div></div>
 <h2><span class="n">&#9873;</span>结论</h2>
 <div class="verdict"><b>结论。</b> 想象纠错确实改变结果（相对不纠正 +4.2pp），但与<b>等预算随机扰动</b>无法区分（-1.1pp，p = 0.61）——模型的方向不是价值所在。用纠错训练（ft_all 57.0%）与仅回放对照（ft_replay 58.0%）持平，而把纠错集中到决策指标最看好的位置反而有害（ft_early 45.0% vs smolvla_libero 61.0%）。状态上的离线价值并不告诉你在该状态该教什么。</div>

diff --git a/src/dreamforge/dashboard.py b/src/dreamforge/dashboard.py
@@ -63,7 +63,14 @@ STRINGS: dict[str, dict[str, str]] = {
         "h_verify": "What imagined corrections are worth (real simulator)",
         "verify_sub": ("Each mined state is restored exactly and replayed with three arms, then the unchanged policy "
                        "resumes. The <code>none</code> arm reproduces the original episode, which anchors the comparison."),
-        "p_curve": "Imagined progress along the CEM plan", "p_curve_sub": "mean ± sd over mined failure states",
+        "p_curve": "Imagined progress along the CEM plan",
+        "p_curve_sub": "world-model read-out · mean ± sd over mined failure states (not simulator success)",
+        "p_curve_note": ("What this is: the world model rolls a candidate plan forward 50 steps in latent space "
+                         "(no simulator); a small head then predicts <b>episode-time progress</b> p∈[0,1] from each "
+                         "imagined latent. The head is trained on demonstration frames labelled by their normalised "
+                         "time inside the episode, so p is a <i>time</i> proxy for task progress. CEM maximises the mean "
+                         "of the last 3 imagined steps. Read-outs like this correlate only weakly with real outcomes "
+                         "(+0.09), which is the finding this repository is about."),
         "t_arms": "Arms", "t_arm": "arm", "t_n": "n", "t_success": "success", "t_rate": "rate", "t_ci": "95% CI",
         "t_paired": "Paired tests (exact McNemar)", "t_comparison": "comparison", "t_delta": "delta",
         "t_impr": "improve/worsen", "t_p": "p",
@@ -116,7 +123,12 @@ STRINGS: dict[str, dict[str, str]] = {
         "h_verify": "想象纠错的真实价值（真实仿真器）",
         "verify_sub": ("精确恢复每个挖掘状态并执行三臂回放，随后交回未修改的策略。<code>none</code> 臂复现原始回合，"
                        "作为配对比较的锚点。"),
-        "p_curve": "想象进度随 CEM 计划的变化", "p_curve_sub": "在挖掘到的失败状态上的均值 ± 标准差",
+        "p_curve": "想象进度随 CEM 计划的变化",
+        "p_curve_sub": "世界模型读出值 · 在挖掘到的失败状态上（均值 ± 标准差）· 并非仿真器判定的成功",
+        "p_curve_note": ("这是什么：世界模型在<b>潜空间</b>把候选计划前滚 50 步（不进仿真器），再由一个小预测头从每个"
+                         "“想象出的”潜状态读出 <b>回合时间进度</b> p∈[0,1]。预测头的训练标签是演示帧在回合内的归一化"
+                         "时间占比，所以 p 是任务进度的<i>时间</i>代理量。CEM 最大化想象最后 3 步的均值。这类读出值与"
+                         "真实结局的相关性很弱（+0.09）——这正是本仓库要说明的问题。"),
         "t_arms": "各组", "t_arm": "组", "t_n": "n", "t_success": "成功", "t_rate": "成功率", "t_ci": "95% CI",
         "t_paired": "配对检验（exact McNemar）", "t_comparison": "对比", "t_delta": "差值",
         "t_impr": "改善/变差", "t_p": "p",
@@ -431,7 +443,8 @@ def _sec_verify(run: Path, arms: dict, t: dict) -> str:
         C = np.concatenate(curves, axis=0)
         curve_html = (f'<div class="panel"><h3>{html.escape(t["p_curve"])}</h3>'
                       f'<div class="sub" style="margin:0 0 8px">{html.escape(t["p_curve_sub"])}</div>'
-                      f'{_curve(C.mean(0), C.std(0), t)}</div>')
+                      f'{_curve(C.mean(0), C.std(0), t)}'
+                      f'<div class="note">{t["p_curve_note"]}</div></div>')
 
     rows = []
     for a in names:

diff --git a/docs/protocol.md b/docs/protocol.md
@@ -33,7 +33,16 @@ still an interpretable result:
 ## Imagination (CEM)
 
 * Latent world model: encoder 96×96 agent view → z (128-d); MLP transition on
-  `(z, a)`; progress head `z → p ∈ [0,1]` trained on normalized episode time.
+  `(z, a)`; progress head `z → p ∈ [0,1]`.
+* **What "imagined progress" is.** The head is trained on demonstration frames
+  with the label `frame_index / max_frame_index` inside the episode — i.e.
+  normalised **episode time**, used as a proxy for task progress. At imagination
+  time the world model rolls a candidate plan forward 50 steps in *latent* space
+  (the simulator is never queried) and the head reads `p` from each imagined
+  latent. "Imagined progress" is therefore the model's **own** read-out, not a
+  success signal: a policy that circles or stalls can look mid-episode to it.
+  The measured correlation between imagined-progress gain and real outcome
+  change is only **+0.09**, which is the finding this repository is about.
 * Search: CEM in action space, horizon 50 (matching the policy chunk), seeded
   with the base policy's own chunk.
 * **Trust region.** The search is bounded to `base ± 0.5σ` *per action
